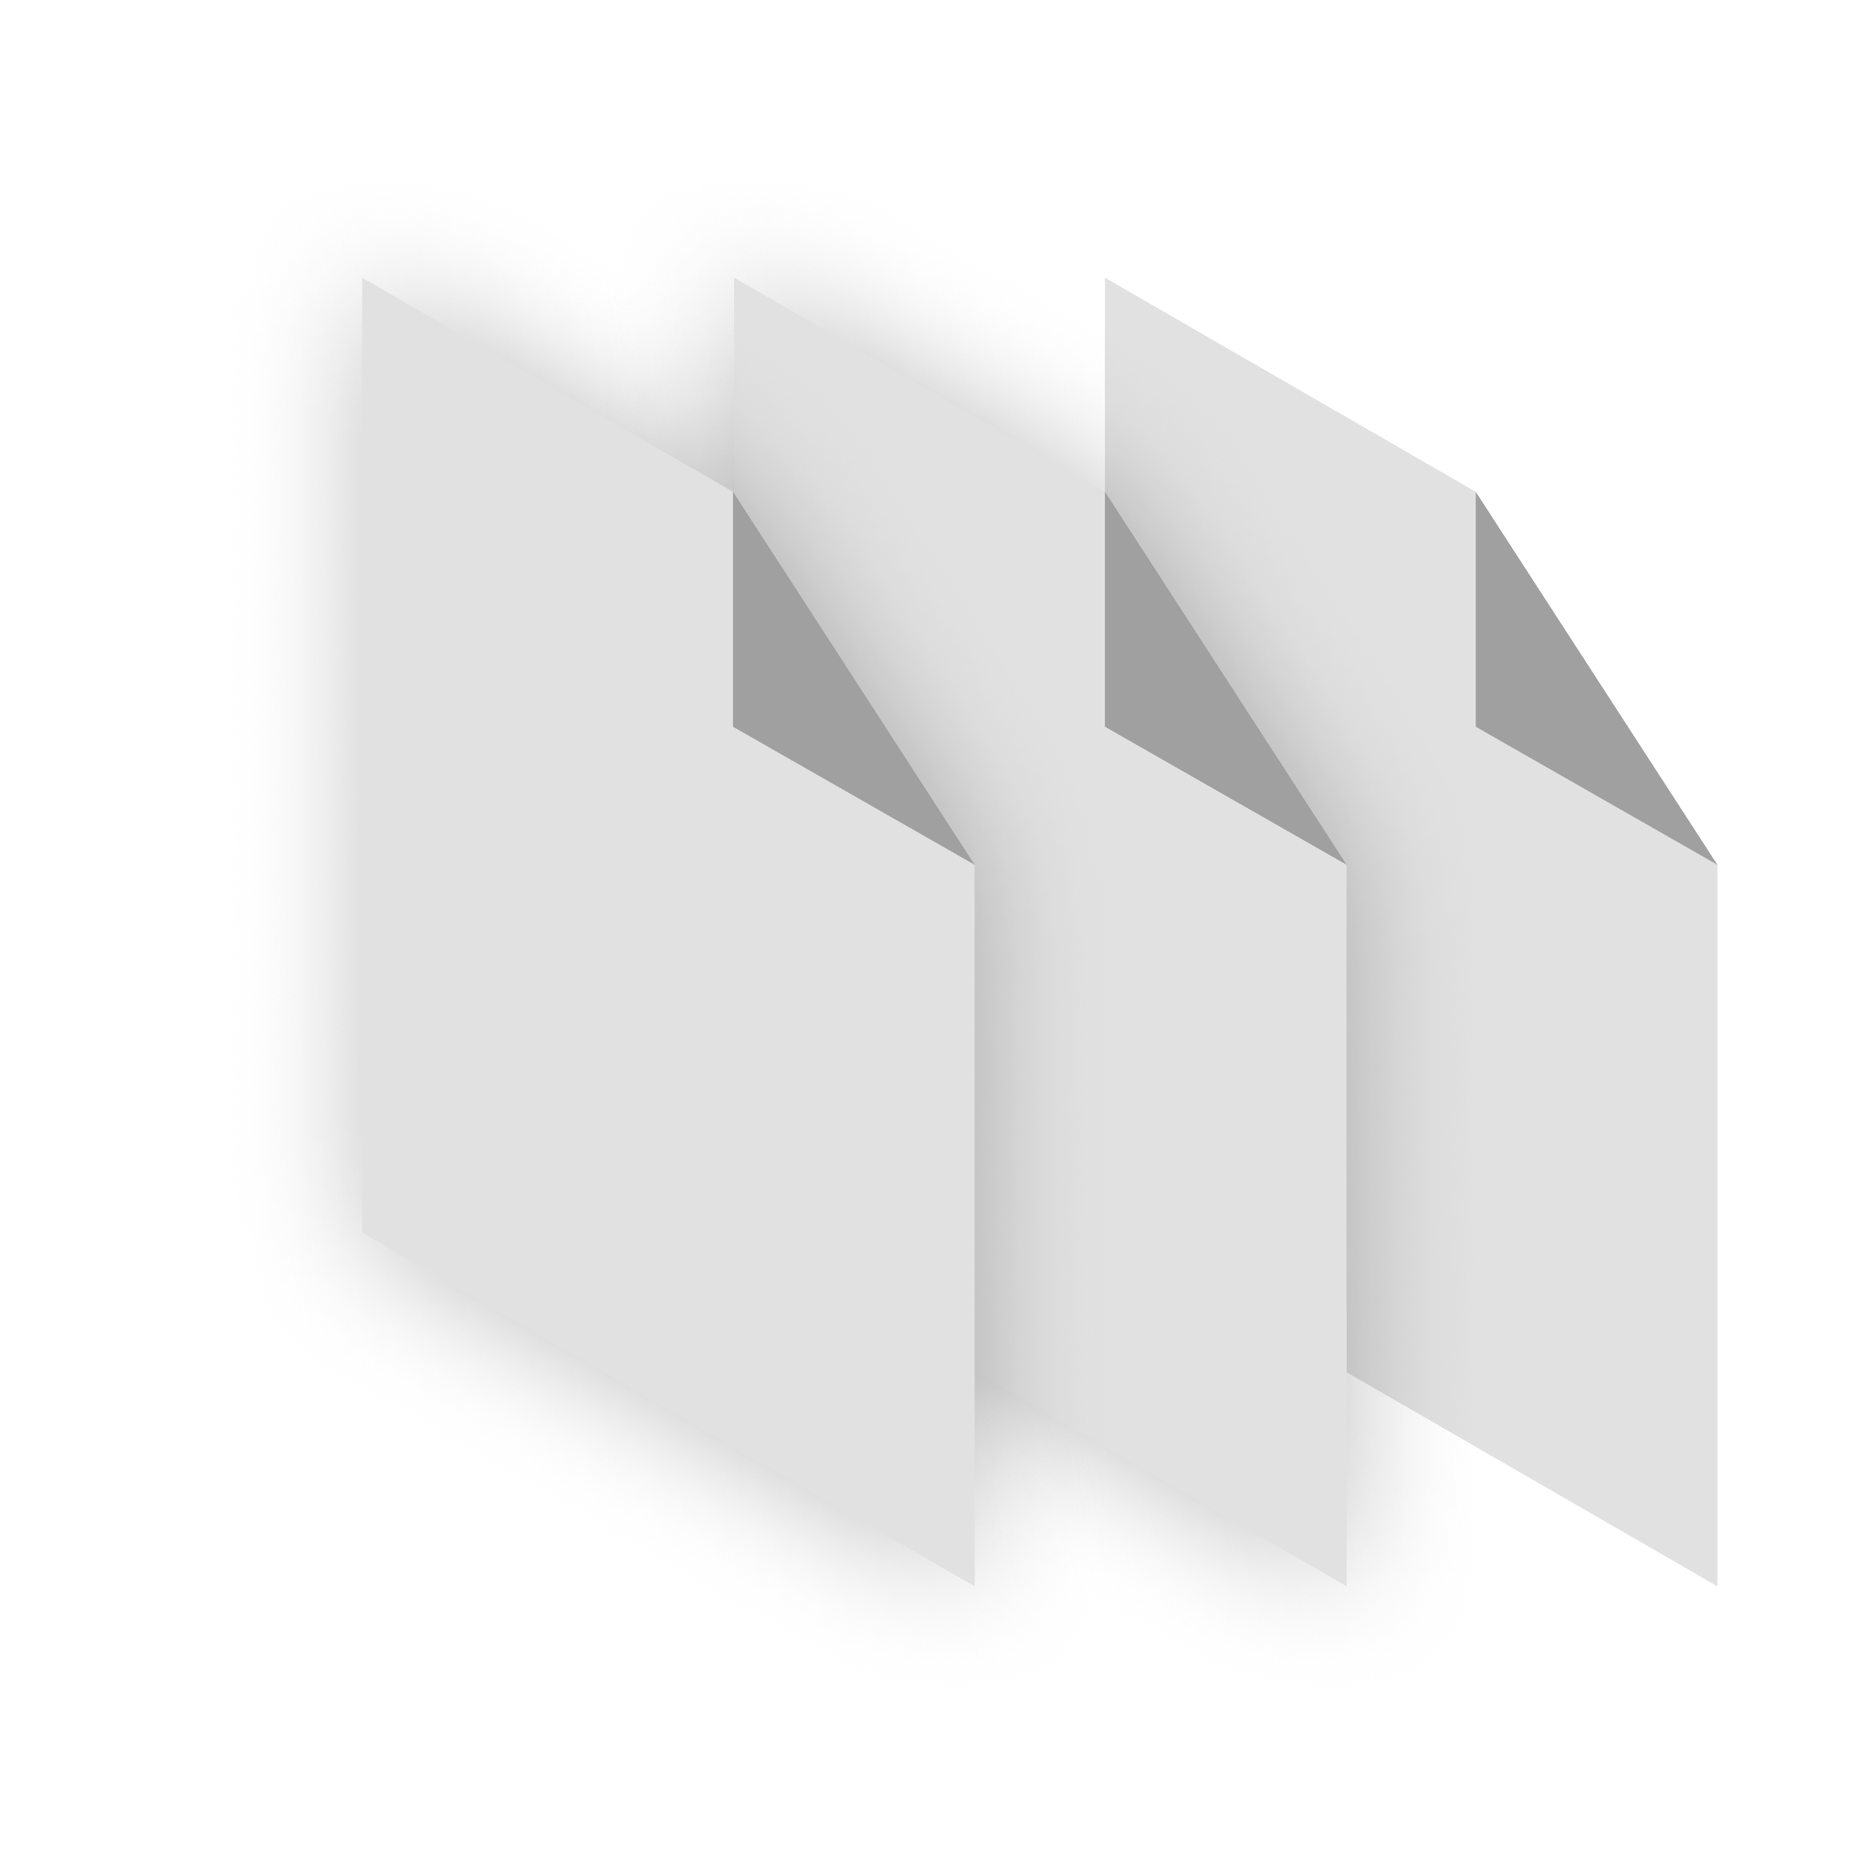
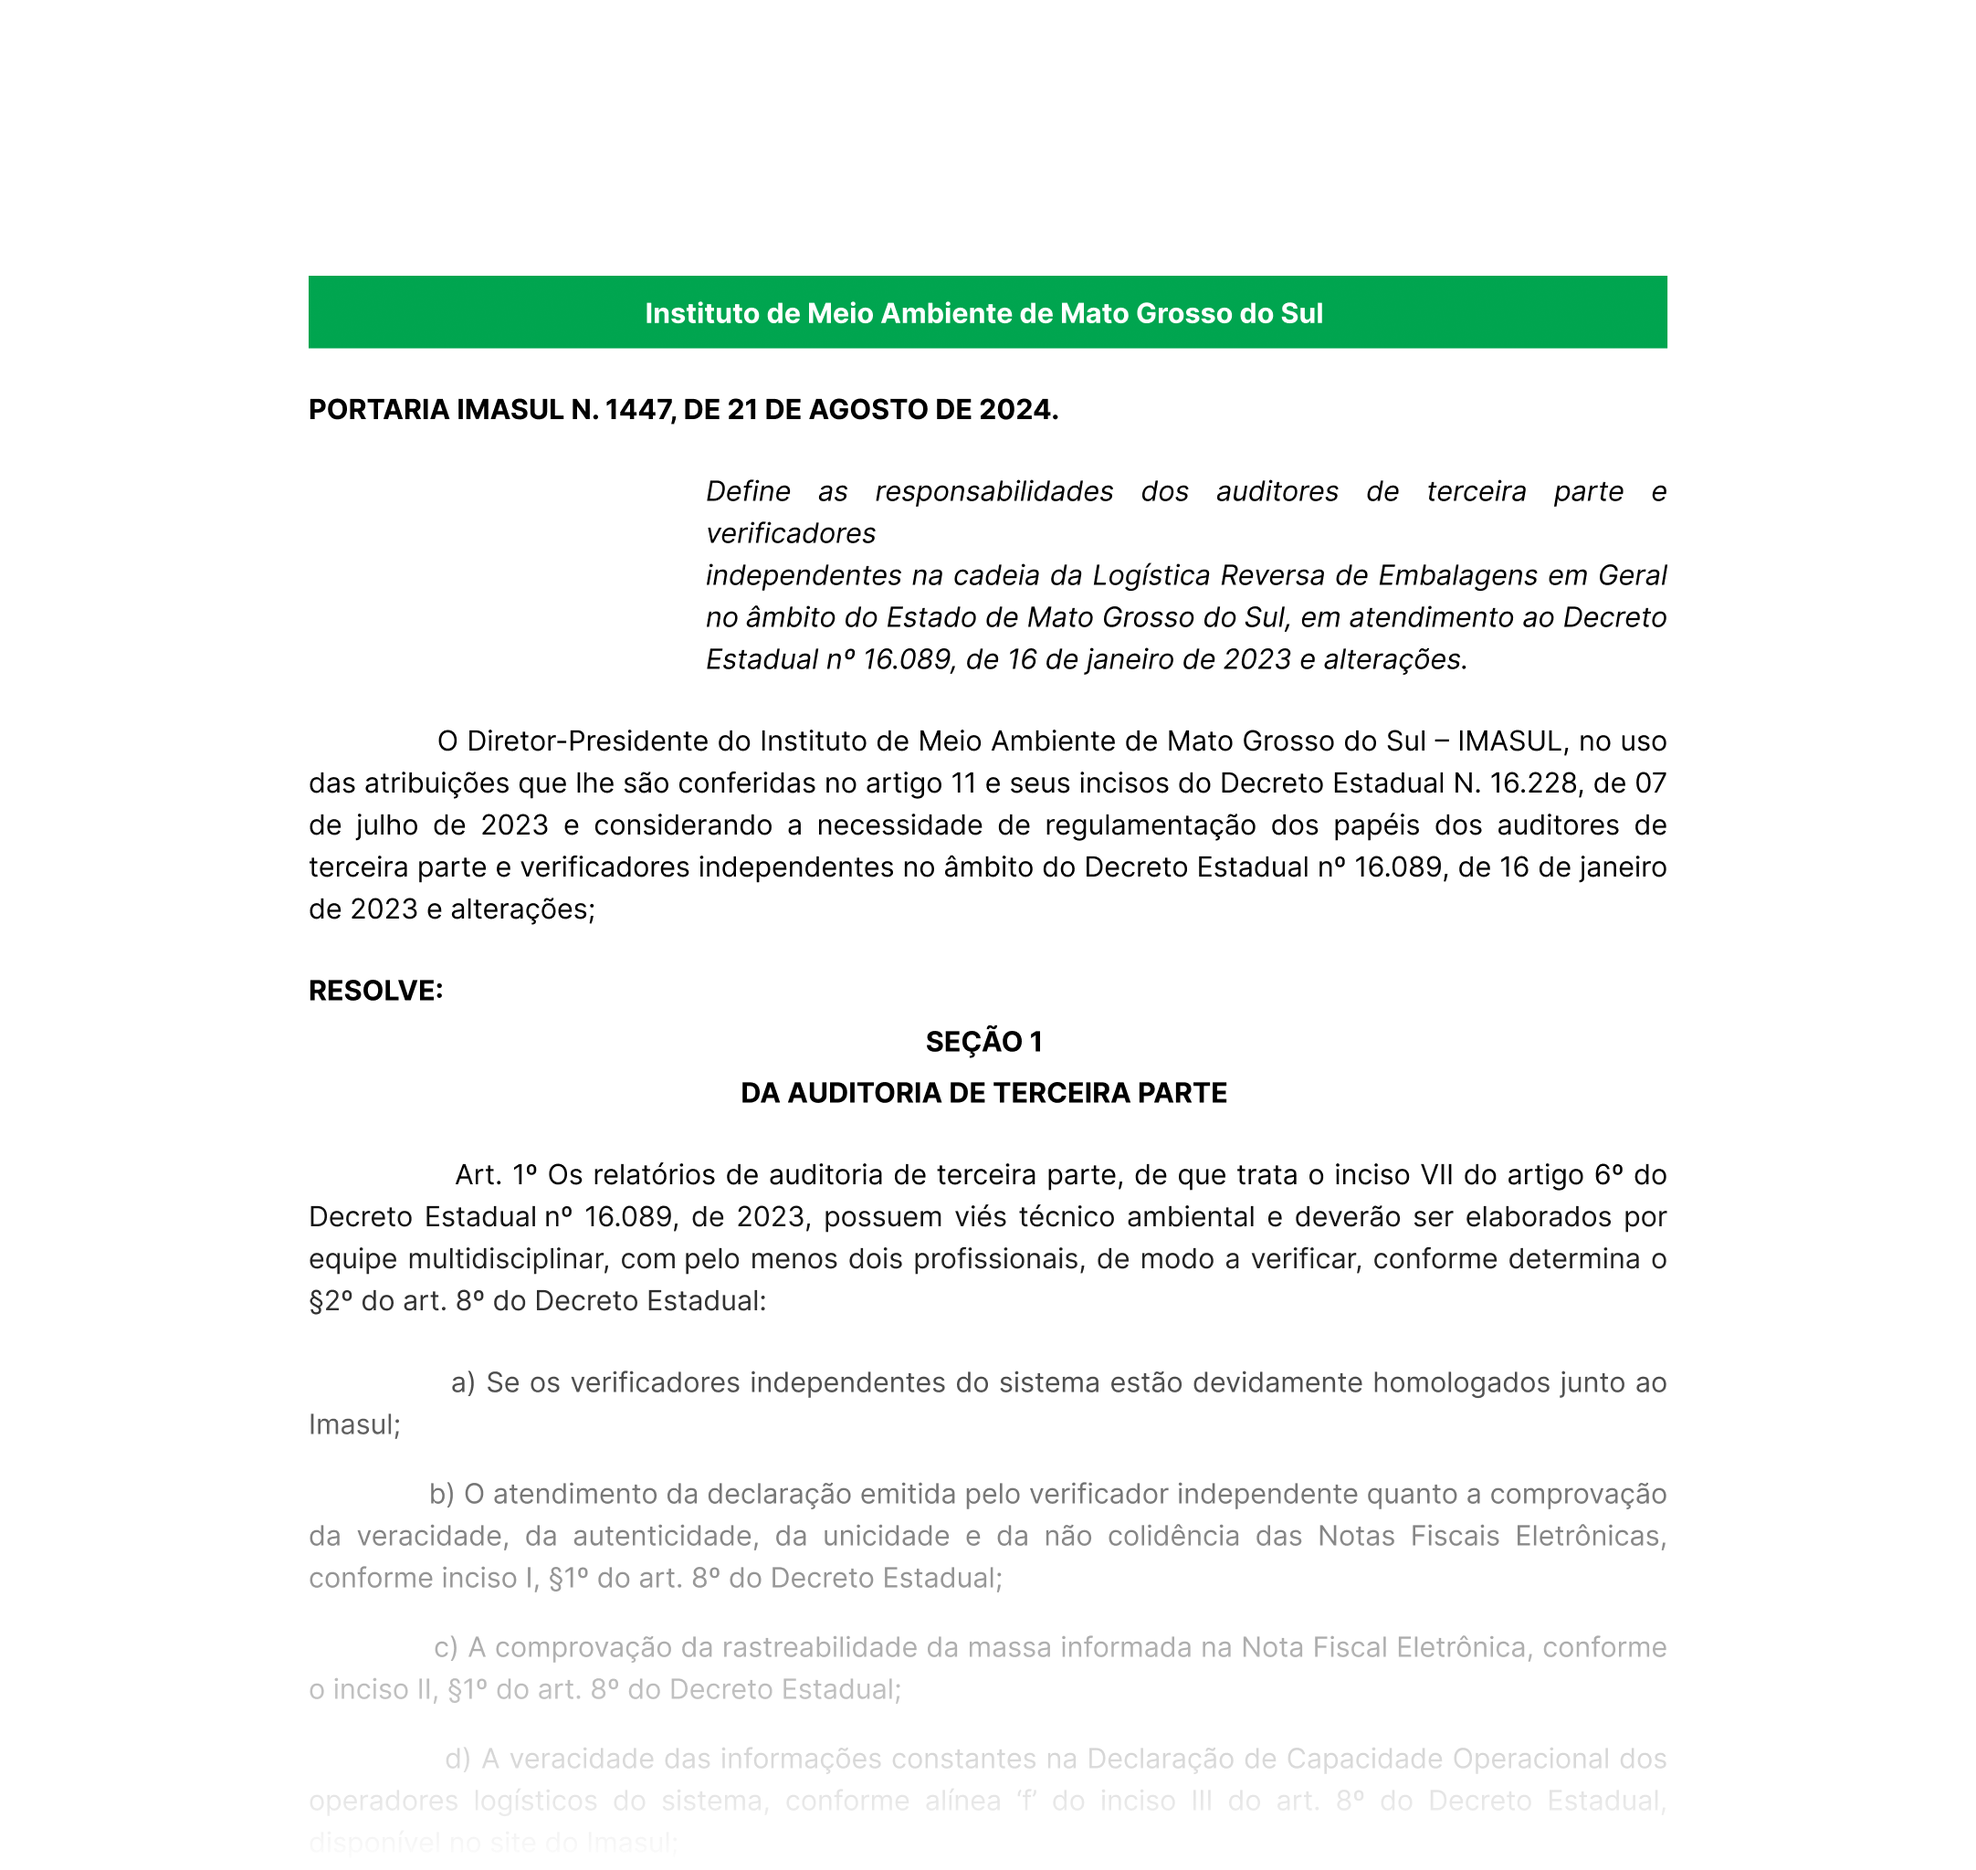
Nova imagem para a portaria Imasul

diff --git a/src/app/page.tsx b/src/app/page.tsx
@@ -44,7 +44,7 @@ export default function Home() {
       {/* SESSÃO PORTARIA */}
       <Container padding='large' reverse>
         <div className="relative animate-idle-slow">
-          <Image src={PortariaCross} alt='Mais' width={180} height={180} quality={100} priority className='absolute bottom-32 left-4 animate-idle'/>
+          <Image src={PortariaCross} alt='Mais' width={180} height={180} quality={100} priority className='absolute bottom-4 -left-8 animate-idle'/>
           <Image src={PortariaImage} alt='Nova Portaria' width={512} height={512} quality={100} priority/>
         </div>
         <TextContent
